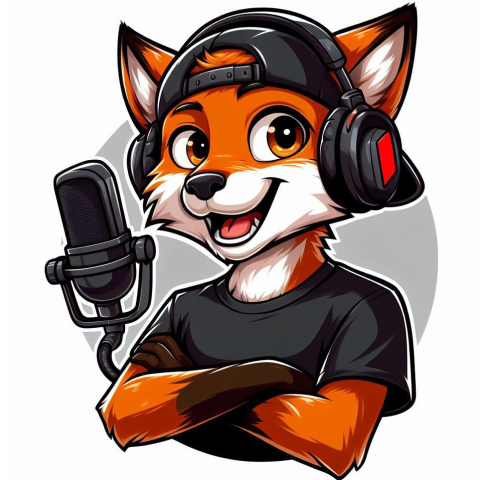
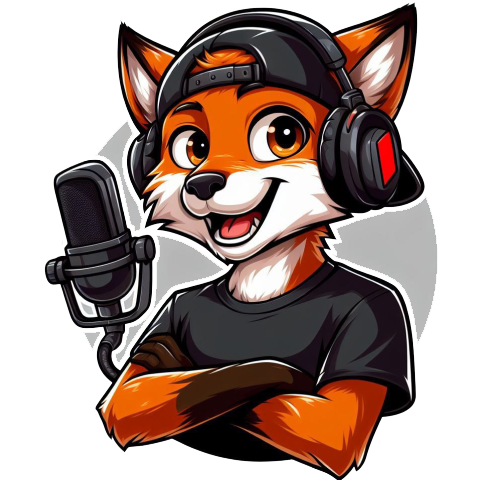
вырезала картинки

diff --git a/index.html b/index.html
@@ -85,7 +85,7 @@
     <!-- about -->
     <section class="page-section--grey page-section--pd80" id="about">
       <div class="about container">
-        <img src="./Image/about.png" alt="" class="about__img">
+        <img src="./Image/about.png" alt="" width="480" height="480" class="about__img">
         <div class="about__text">
           <h2 class="title about__title">О нас</h2>
           <p>Мы - передовая и инновационная игровая студия, которая расширяет границы воображения. Мы верим в создание увлекательного опыта, который переносит игроков в захватывающие виртуальные миры, наполненные чудесами, волнением и бесконечными возможностями.</p>
@@ -240,7 +240,7 @@
             
           </div>
 
-          <img src="./Image/fox_q_a.jpg" alt=""  width="370" height="370">
+          <img src="./Image/fox_q_a.png" alt=""  width="370" height="370">
         </div>     
       </div>
 
